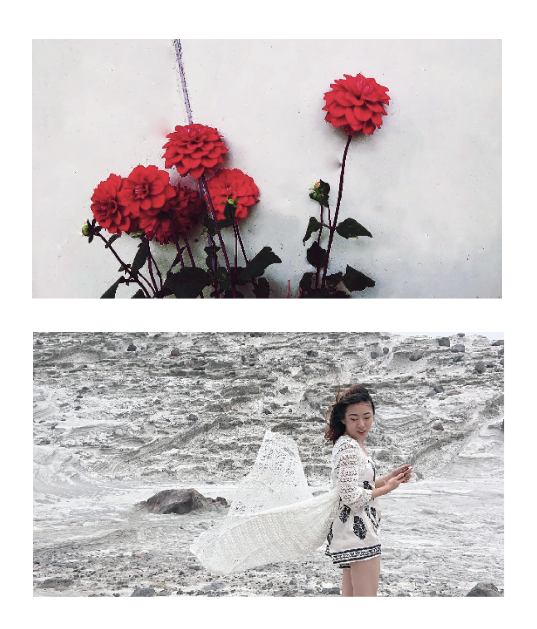
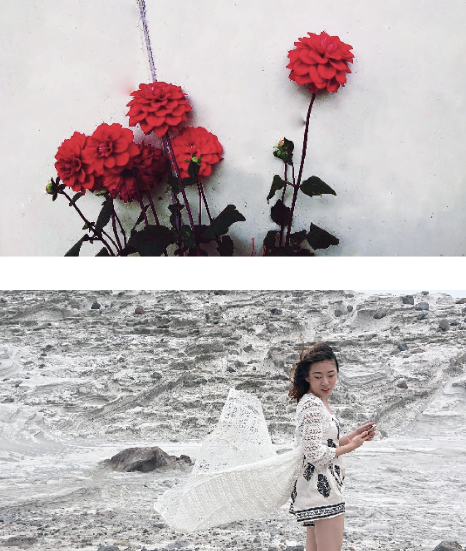
新增html課表、按鈕、邊框

diff --git a/class.html b/class.html
@@ -1,0 +1,87 @@
+<!DOCTYPE html>
+<html lang="en">
+<head>
+    <meta charset="UTF-8">
+    <title>class</title>
+</head>
+<body>
+<table>
+    <tr>
+        <th>節次</th>
+        <th>一</th>
+        <th>二</th>
+        <th>三</th>
+        <th>四</th>
+        <th>五</th>
+    </tr>
+    <tr>
+        <th>1</th>
+        <th>-</th>
+        <th colspan="1" style="background: coral">程式</th>
+        <th>-</th>
+        <th>-</th>
+        <th>-</th>
+    </tr>
+    <tr>
+        <th>2</th>
+        <th>-</th>
+        <th colspan="1" style="background: coral">程式</th>
+        <th>-</th>
+        <th colspan="1" style="background: mediumpurple">圖像</th>
+        <th>-</th>
+    </tr>
+    <tr>
+        <th>3</th>
+        <th colspan="1" style="background: hotpink">聲音</th>
+        <th colspan="1" style="background: royalblue">群己</th>
+        <th colspan="1" style="background: gold">網頁</th>
+        <th colspan="1" style="background: mediumpurple">圖像</th>
+        <th>-</th>
+    </tr>
+    <tr>
+        <th>4</th>
+        <th colspan="1" style="background: hotpink">聲音</th>
+        <th colspan="1" style="background: dodgerblue">服務</th>
+        <th colspan="1" style="background: gold">網頁</th>
+        <th colspan="1" style="background: mediumpurple">圖像</th>
+        <th>-</th>
+    </tr>
+    <tr>
+        <th>午休</th>
+        <th colspan="5" style="background: lightpink"> </th>
+    </tr>
+    <tr>
+        <th>5</th>
+        <th>-</th>
+        <th>-</th>
+        <th>-</th>
+        <th colspan="1" style="background: plum">劇本</th>
+        <th>-</th>
+    </tr>
+    <tr>
+        <th>6</th>
+        <th colspan="1" style="background: lightcoral">3D</th>
+        <th colspan="1" style="background: lightskyblue">專題</th>
+        <th>-</th>
+        <th colspan="1" style="background: plum">劇本</th>
+        <th>-</th>
+    </tr>
+    <tr>
+        <th>7</th>
+        <th colspan="1" style="background: lightcoral">3D</th>
+        <th colspan="1" style="background: sandybrown">腳本</th>
+        <th colspan="1" style="background: khaki">生態</th>
+        <th>-</th>
+        <th>-</th>
+    </tr>
+    <tr>
+        <th>8</th>
+        <th colspan="1" style="background: lightcoral">3D</th>
+        <th colspan="1" style="background: sandybrown">腳本</th>
+        <th colspan="1" style="background: khaki">生態</th>
+        <th>-</th>
+        <th>-</th>
+    </tr>
+</table>
+</body>
+</html>

diff --git a/index.html b/index.html
@@ -10,9 +10,11 @@
 </div>
 
 <body>
-<img class="img-start" src="img/sticker.png" height="400" width="300"/>
-
-<img id="img-master" src="img/figure.png" height="450" width="300"/>
+<P Align=center><img class="img-start" src="img/sticker.png" height="400" width="300"/>
+    <img id="img-master" src="img/figure.png" height="450" width="300"/>
+    <img class="img-start2" src="img/picture.png" height="434" width="350"/>
+    <a href="class.html"><img src="img/button.png" height="153" width="450"/><a/>
+<p/>
 </body>
 
 </html>

diff --git a/mipoof.css b/mipoof.css
@@ -1,7 +1,7 @@
 .relative {
     background: lightpink;
-    height: 100px;
-    width: 1200px;
+    height: 70px;
+    width: 1520px;
 }
 
 .img-start {
@@ -10,7 +10,11 @@
     width: 350px
 }
 
-#img-master{
+#img-master {
     border-left: 12px dashed palevioletred;
     border-right: 12px dashed palevioletred;
+}
+
+.img-start2 {
+    border: 8px solid mediumpurple;
 }
